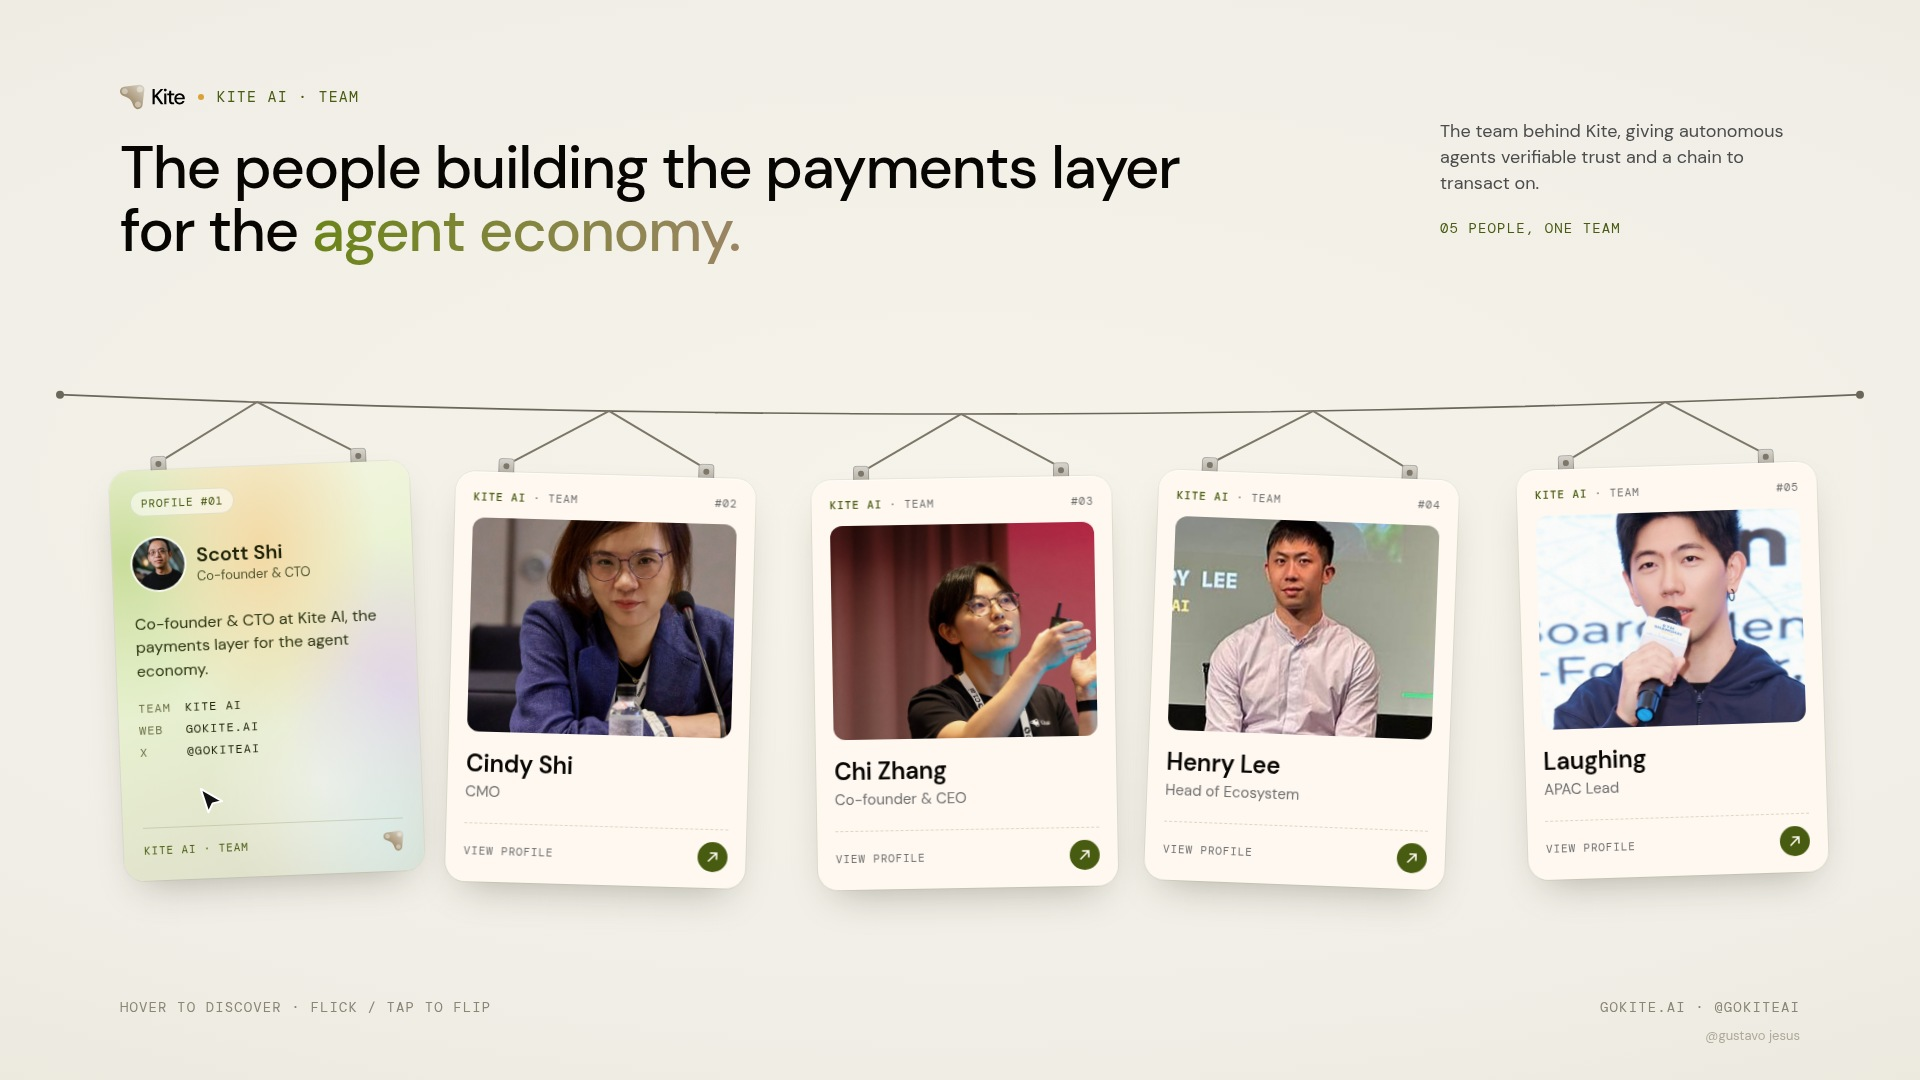
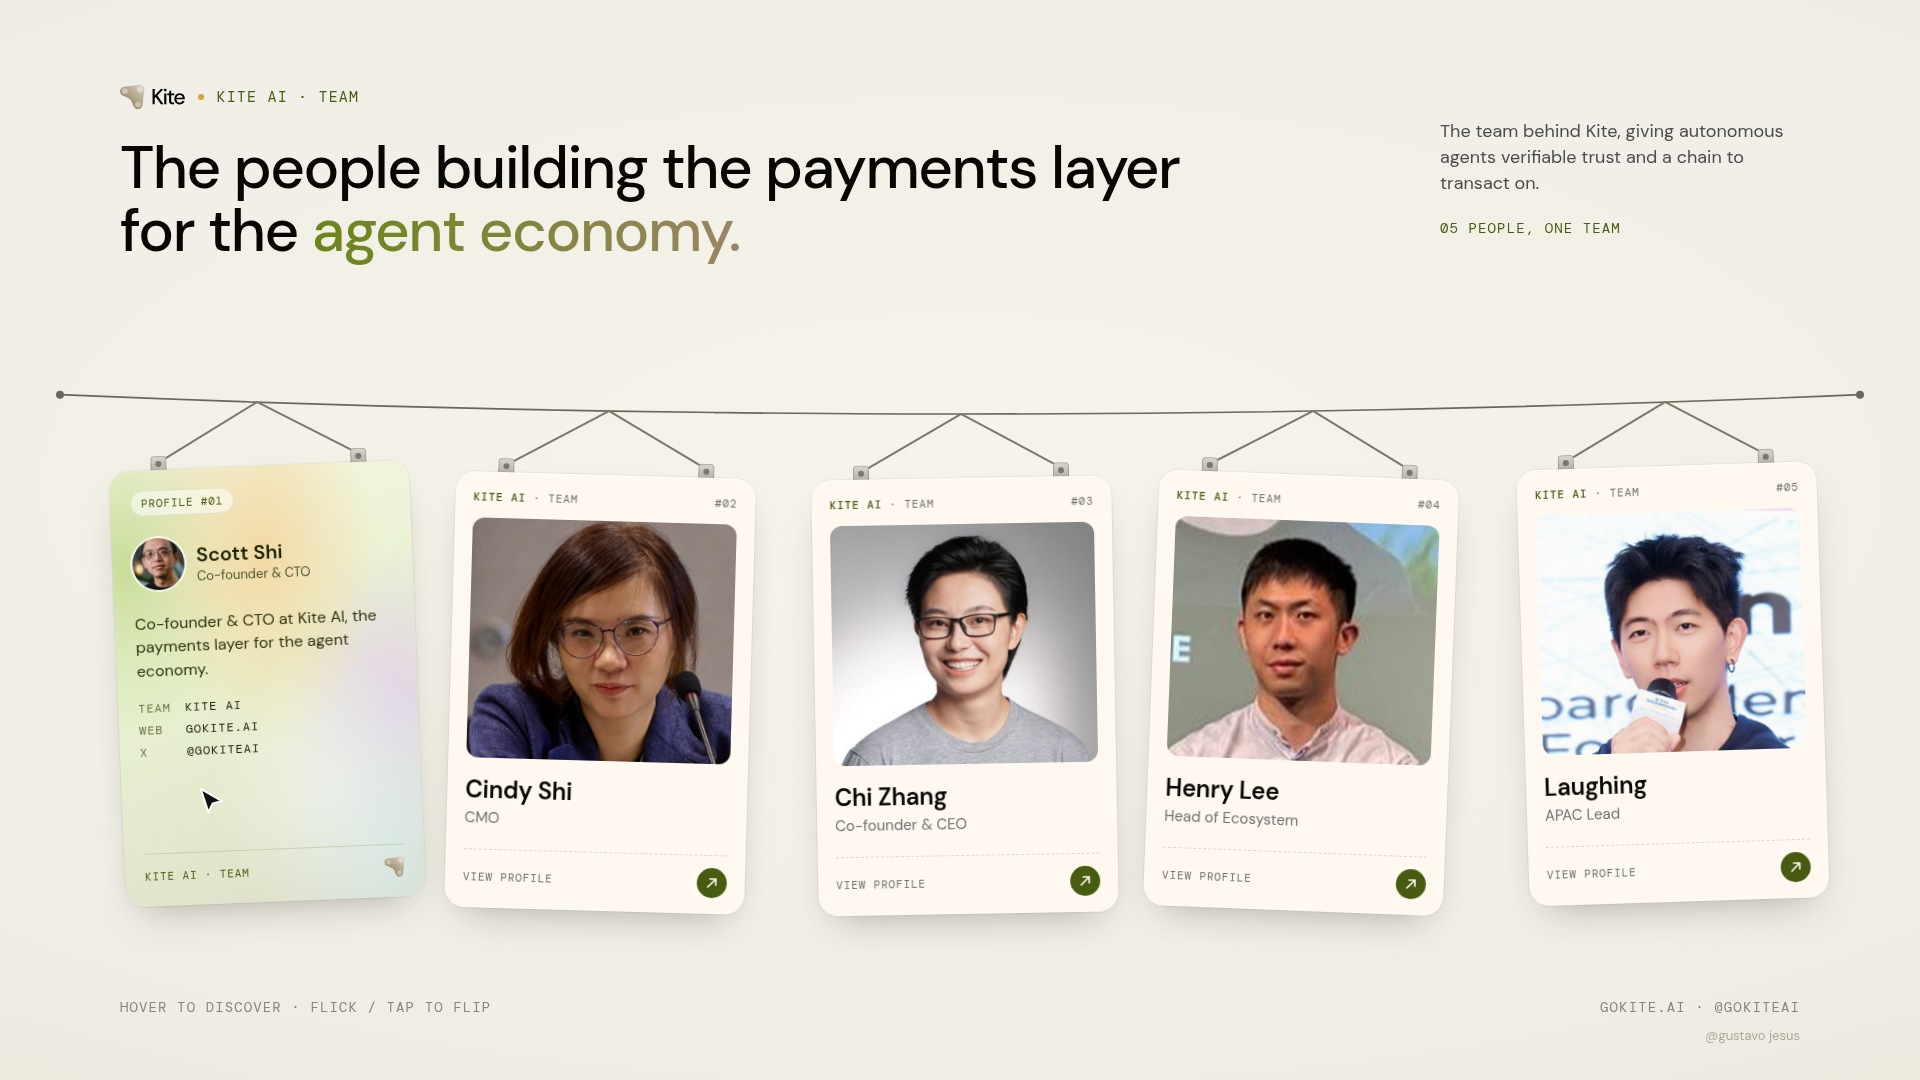
Recrop portraits, new Chi Zhang photo, taller photo frame

Changed region(s): [[0.0938, 0.4583, 0.75, 0.8556], [0.7812, 0.4583, 0.9688, 0.8556], [0.0625, 0.4889, 0.0938, 0.55]]

diff --git a/src/style.css b/src/style.css
@@ -25,14 +25,14 @@ h1 em{font-style:normal;color:var(--olive3);background:linear-gradient(90deg,var
 .tether{position:absolute;top:0;width:1.6px;background:#7d776a;transform-origin:50% 0}
 .clip{position:absolute;width:16px;height:22px;border-radius:4px;background:linear-gradient(#d9d6cf,#a8a398);box-shadow:inset 0 0 0 1px rgba(0,0,0,.18)}
 .clip::after{content:'';position:absolute;left:5px;top:5px;width:6px;height:6px;border-radius:50%;background:#7d776a}
-.card{position:absolute;left:0;width:300px;height:410px;transform-style:preserve-3d}
+.card{position:absolute;left:0;width:300px;height:436px;transform-style:preserve-3d}
 .face{position:absolute;inset:0;border-radius:20px;backface-visibility:hidden;-webkit-backface-visibility:hidden;overflow:hidden;
   box-shadow:0 1px 0 rgba(255,255,255,.7) inset,0 0 0 1px rgba(72,92,17,.08),0 18px 40px -18px rgba(40,36,20,.35)}
 .front{background:var(--paper);padding:18px 18px 16px;display:flex;flex-direction:column}
 .row{display:flex;justify-content:space-between;align-items:center}
 .lbl{font-size:11px;color:var(--grey)}
 .lbl b{color:var(--olive);font-weight:500}
-.photo{margin-top:14px;height:214px;border-radius:12px;background:#ddd center/cover no-repeat}
+.photo{margin-top:14px;height:240px;border-radius:12px;background:#ddd center/cover no-repeat}
 .name{margin-top:16px;font-size:24px;font-weight:600;letter-spacing:-.01em}
 .role{margin-top:3px;font-size:15px;color:var(--grey)}
 .foot{margin-top:auto;padding-top:12px;border-top:1px dashed rgba(72,92,17,.2)}
@@ -44,7 +44,7 @@ h1 em{font-style:normal;color:var(--olive3);background:linear-gradient(90deg,var
 .back>*:not(.mesh):not(.glare){position:relative;z-index:2}
 .pill{align-self:flex-start;padding:6px 11px;border-radius:99px;background:rgba(255,255,255,.55);font-size:11px;color:var(--olive);box-shadow:0 0 0 1px rgba(72,92,17,.12) inset}
 .who{display:flex;gap:12px;align-items:center;margin-top:22px}
-.mini{width:52px;height:52px;border-radius:50%;background:#ccc center/cover;box-shadow:0 0 0 2px rgba(255,255,255,.8)}
+.mini{width:52px;height:52px;border-radius:50%;background:#ccc 50% 22%/150% auto;box-shadow:0 0 0 2px rgba(255,255,255,.8)}
 .who .n{font-size:20px;font-weight:600}.who .r{font-size:13px;color:#4f5530}
 .biot{margin-top:22px;font-size:16px;line-height:1.45;color:#2c3311}
 .kv{margin-top:18px;display:grid;grid-template-columns:auto 1fr;gap:6px 14px;font-size:12px}

diff --git a/src/main.js b/src/main.js
@@ -7,7 +7,7 @@ import './style.css';
 import { TEAM, bio } from './team.js';
 import { SCRIPT, DURATION } from './script.js';
 
-const W = 1920, H = 1080, CW = 300, CH = 410, TETHER = 64;
+const W = 1920, H = 1080, CW = 300, CH = 436, TETHER = 64;
 const params = new URLSearchParams(location.search);
 const RENDER = params.has('render');
 const stage = document.getElementById('stage');
